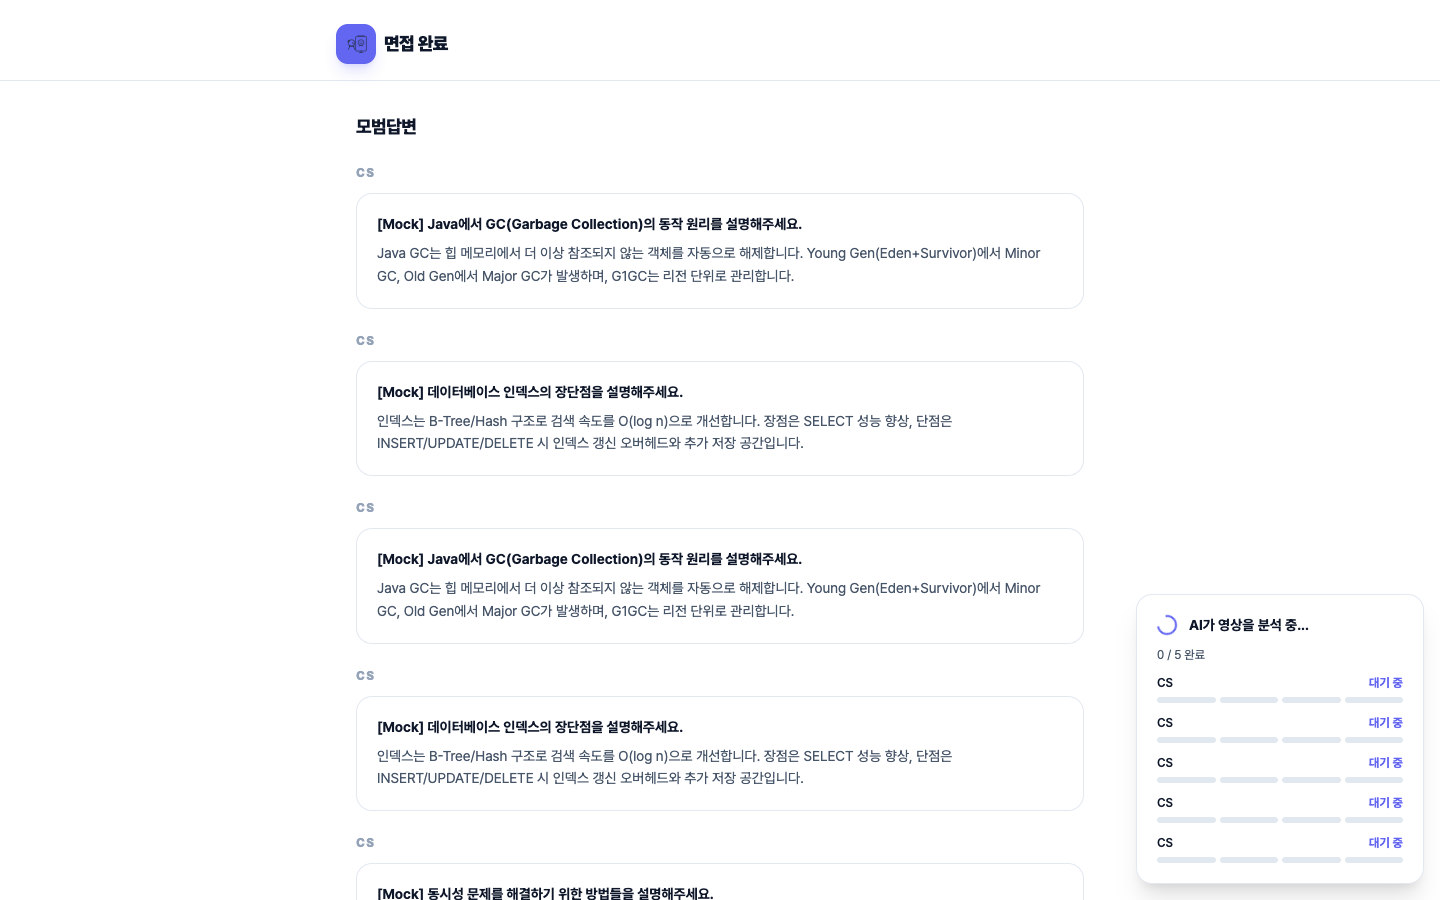
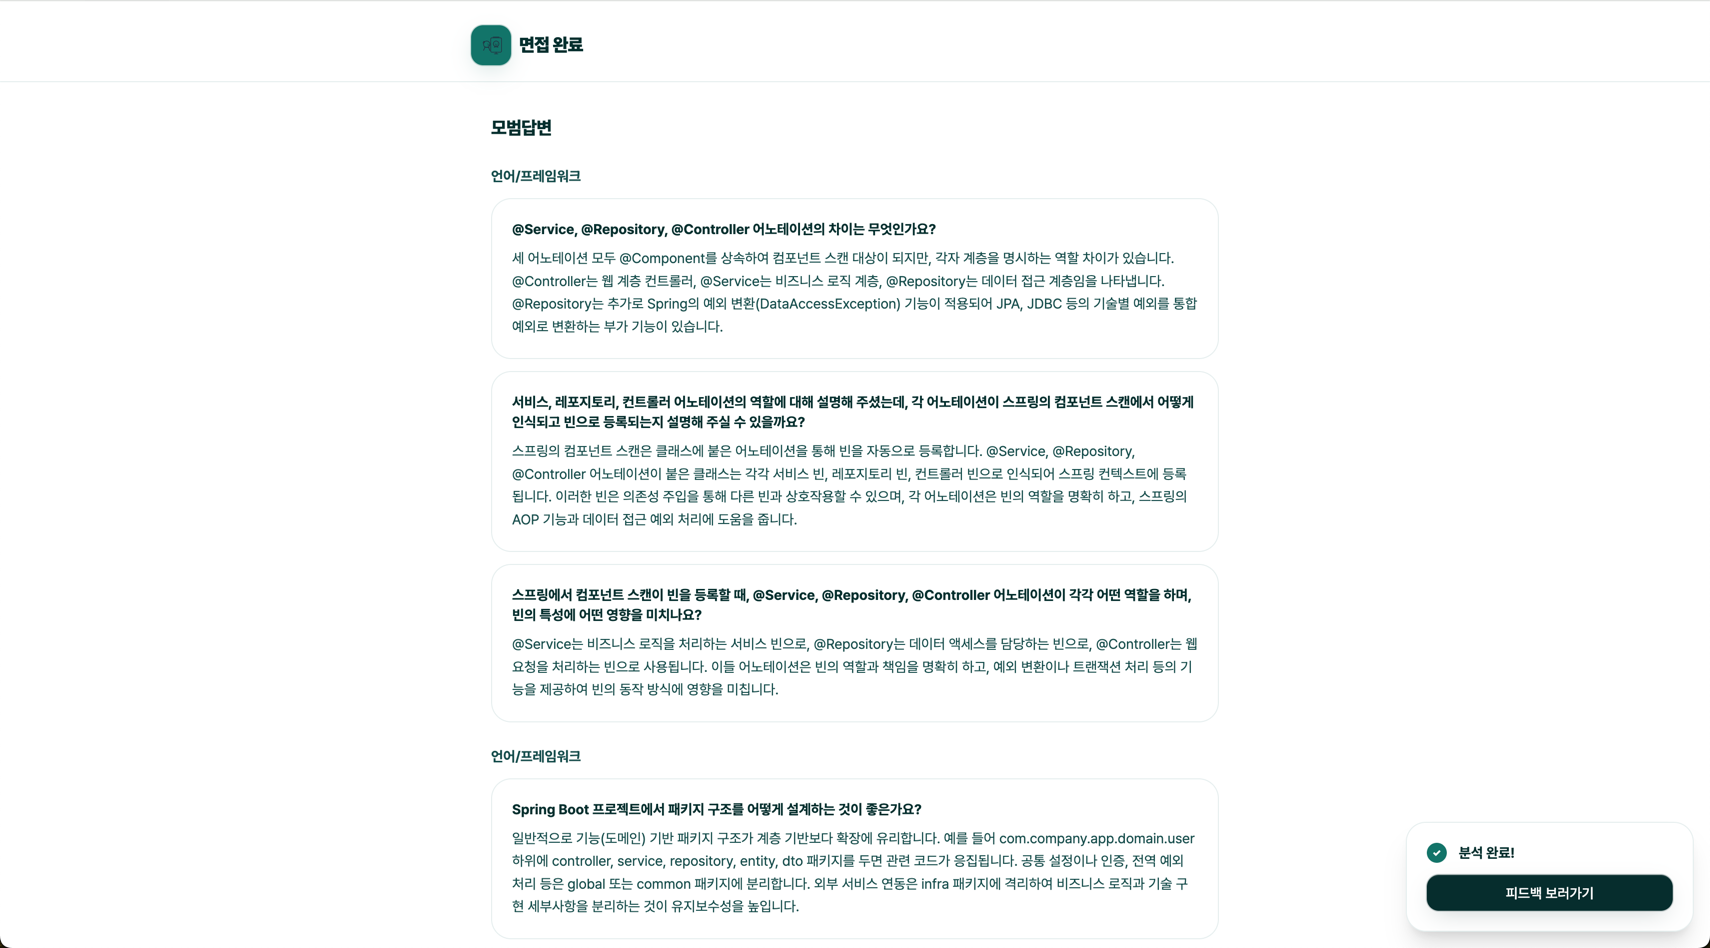
docs: 분석 대기 스크린샷을 모범답변 중심 뷰로 교체
새 UI에서는 분석이 백그라운드로 돌아가는 동안 같은 화면에서 모범답변을
바로 보여주고, 완료 시점에 토스트로 알리는 흐름. README 본문도 그에 맞춰
"분석 대기" → "분석 대기 & 모범답변" 섹션으로 재정리.

diff --git a/README.md b/README.md
@@ -100,12 +100,11 @@ Google Meet 스타일의 면접 화면에서 AI 면접관과 1:1 모의면접을
 - 답변 후 심화/보충/반론 후속 질문 자동 생성 (최대 3라운드)
 - 질문 세트별 영상 녹화 → S3 자동 업로드
 
-### 4. 분석 대기
+### 4. 분석 대기 & 모범답변
 
-![분석 대기](docs/images/analysis.png)
+![분석 대기 & 모범답변](docs/images/analysis.png)
 
-면접 종료 후 Lambda가 자동으로 분석을 시작합니다.
-각 질문 세트별 진행 상황을 실시간으로 확인할 수 있으며, 모범 답안도 함께 제공됩니다.
+면접이 끝나면 `S3 업로드 → Lambda (Whisper STT + GPT-4o Vision)` 분석이 백그라운드로 돌아가는 동안, 같은 화면에서 **질문별 모범답변**을 먼저 확인할 수 있습니다. 분석이 완료되면 우측 하단 `분석 완료!` 토스트와 함께 `피드백 보러가기` 버튼이 활성화됩니다.
 
 ### 5. 타임스탬프 피드백 리뷰
 
